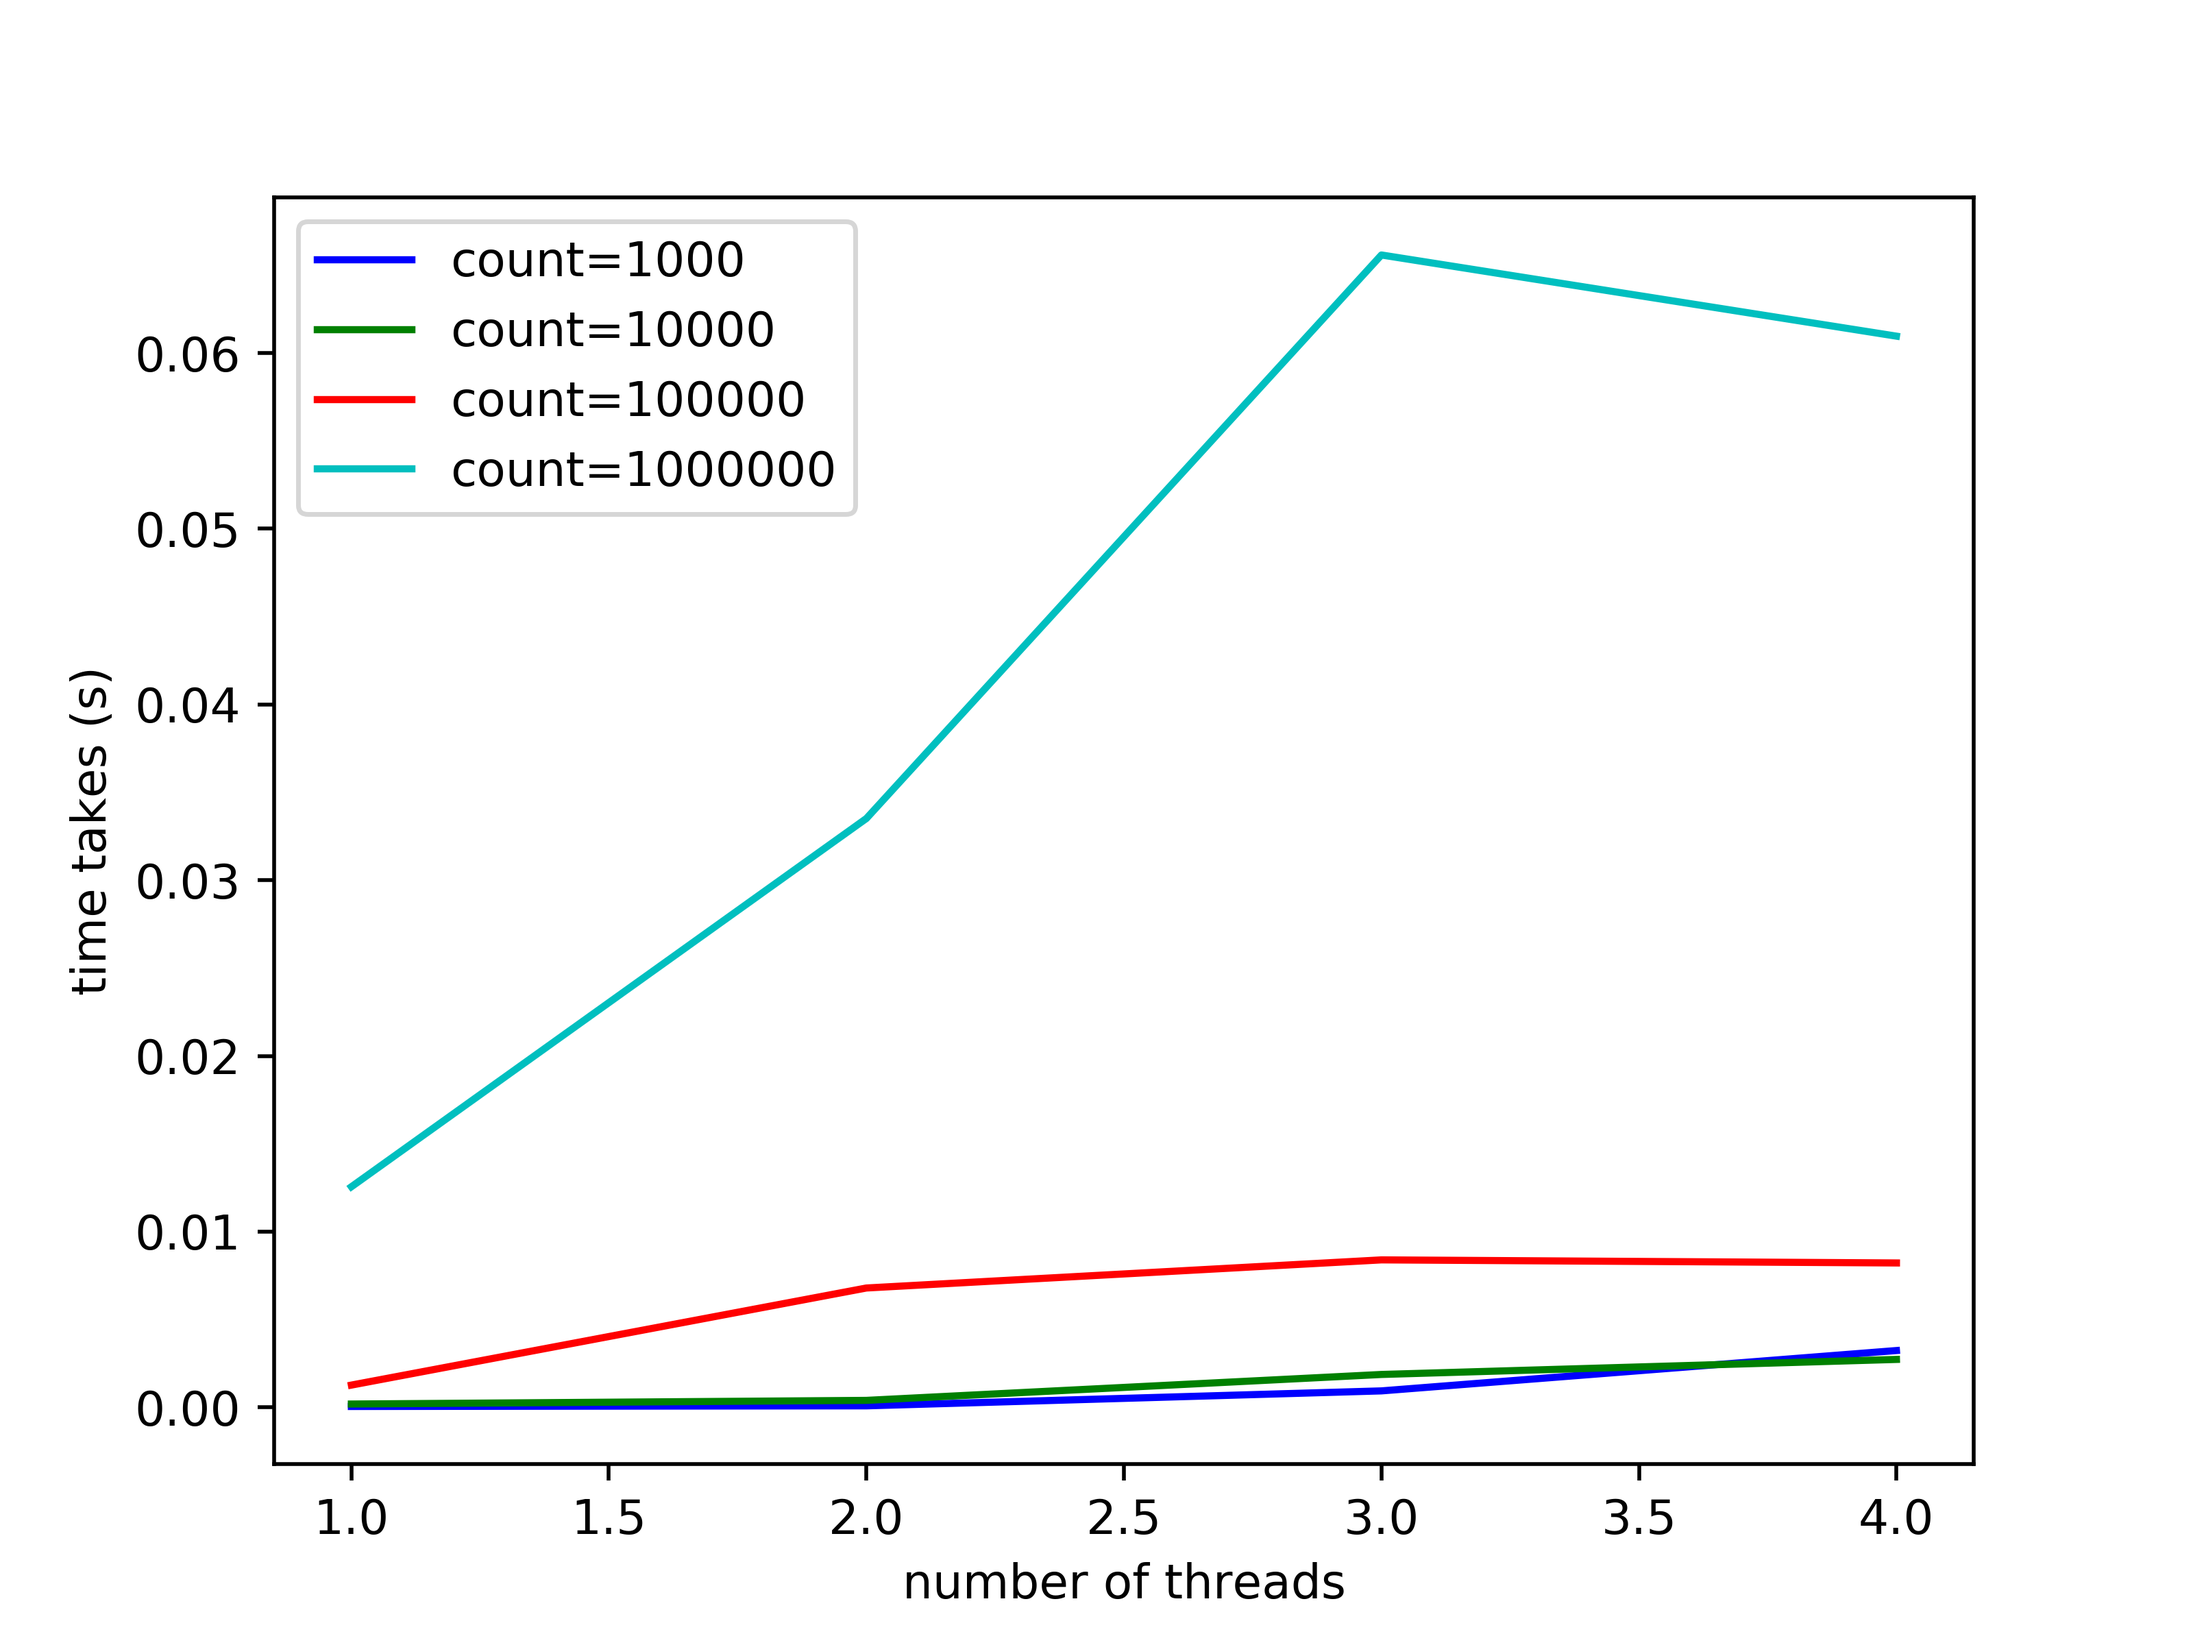
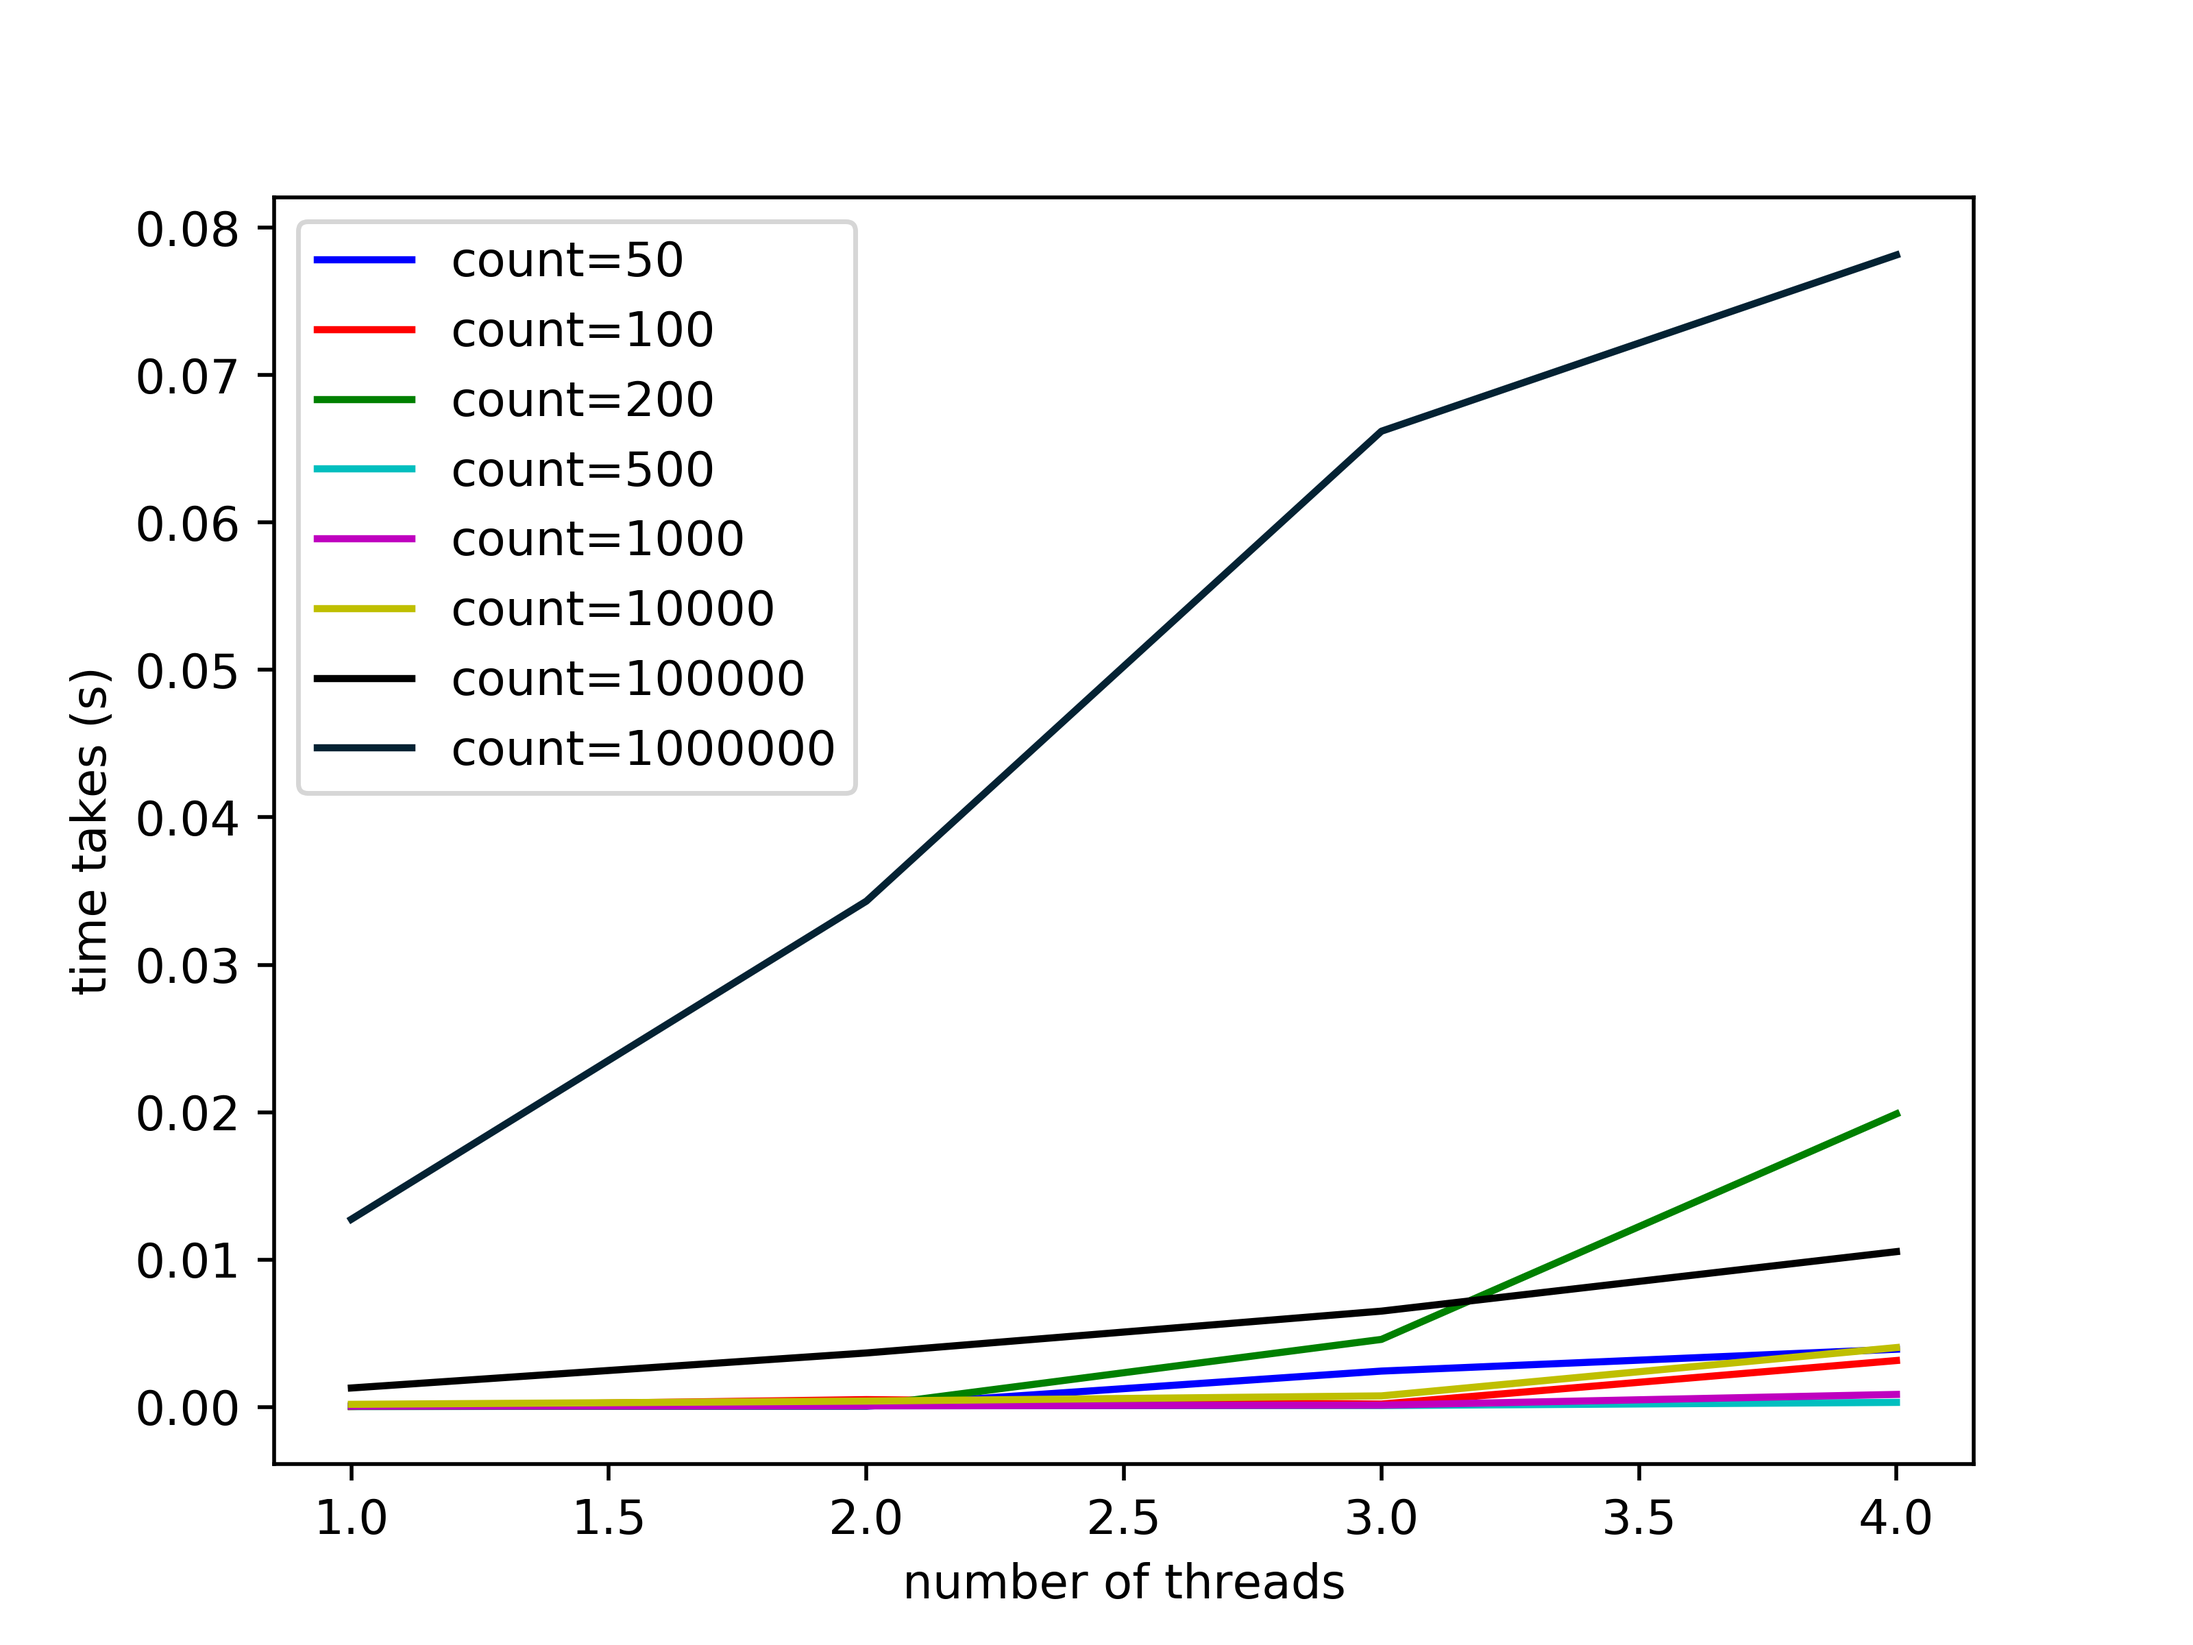
updated some test cases

diff --git a/assign2/performance_analysis/busy_wait/main.c b/assign2/performance_analysis/busy_wait/main.c
@@ -102,10 +102,15 @@ static void* m_thread_fn(void* args){
 
 
     for(i = 0 ; i < my_count_lim; i++){
-
-        while(flag!=arguments->id);
-        counter++;
-        flag = (flag+1)%(arguments->num_t);
+        if(counter< count_lim){
+            while(flag!=arguments->id){}
+            counter++;
+            flag = (flag+1)%(arguments->num_t);
+        }
+        else{
+            break;
+        }
+        
     }
 
     //printf("id is %d and my_count_limit is %lld \n", arguments->id,i);

diff --git a/assign2/performance_analysis/report_finaliser.py b/assign2/performance_analysis/report_finaliser.py
@@ -1,5 +1,9 @@
 import matplotlib.pyplot as plt
 import sys
+import random
+
+def ret_rand_col(arg):
+	return '#'+"%06x" % random.randint(0, 0xFFFFFF)
 
 file_name = sys.argv[1]
 
@@ -39,8 +43,8 @@ t_keys = list(t_counts.keys())
 
 #print(count_key)
 #print(t_keys)
-
-colors = [ 'b' , 'g' , 'r' , 'c' , 'm', 'y', 'k']
+colors = ['b','r','g','c','m','y','k']
+colors.extend( [ ret_rand_col(x) for x in count_key] )
 
 plt.ylabel("time takes (s)")
 plt.xlabel("number of threads")
